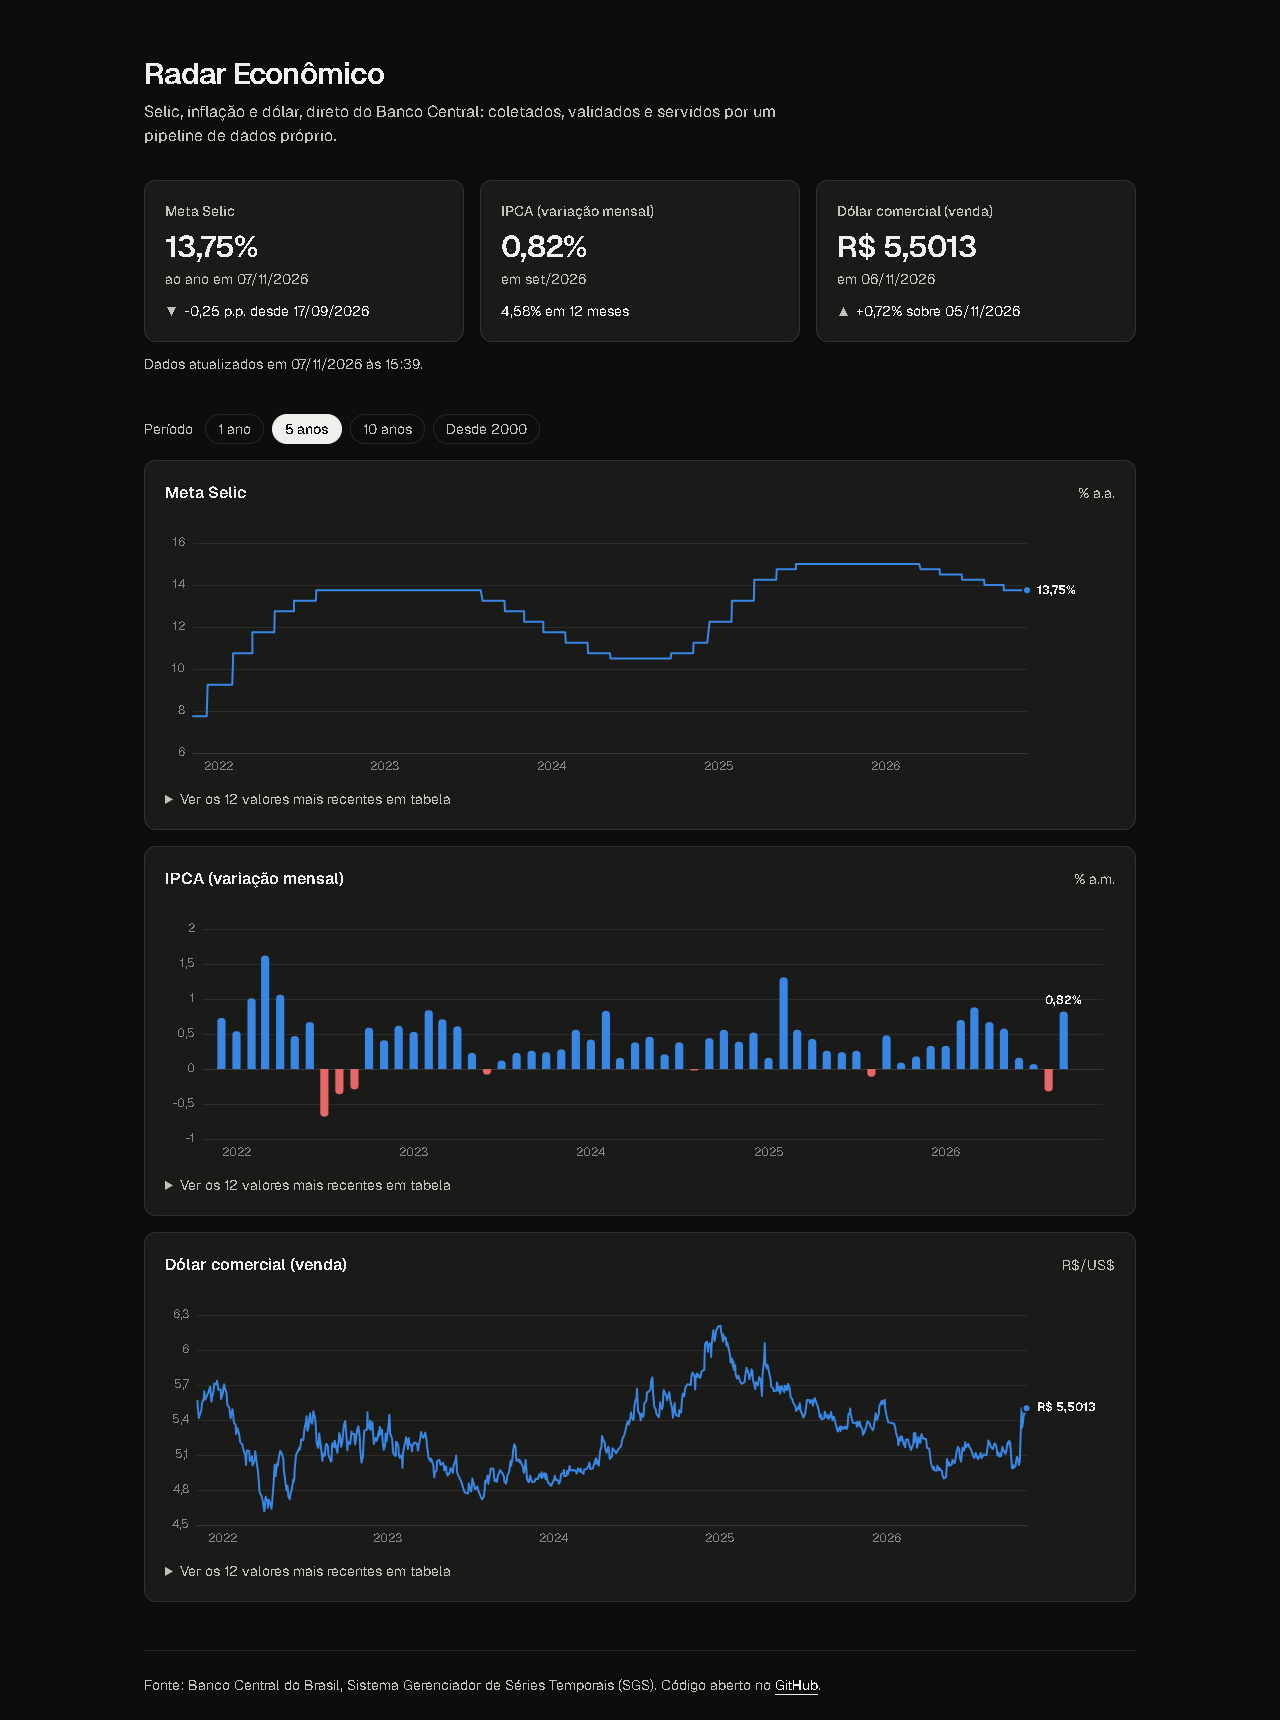
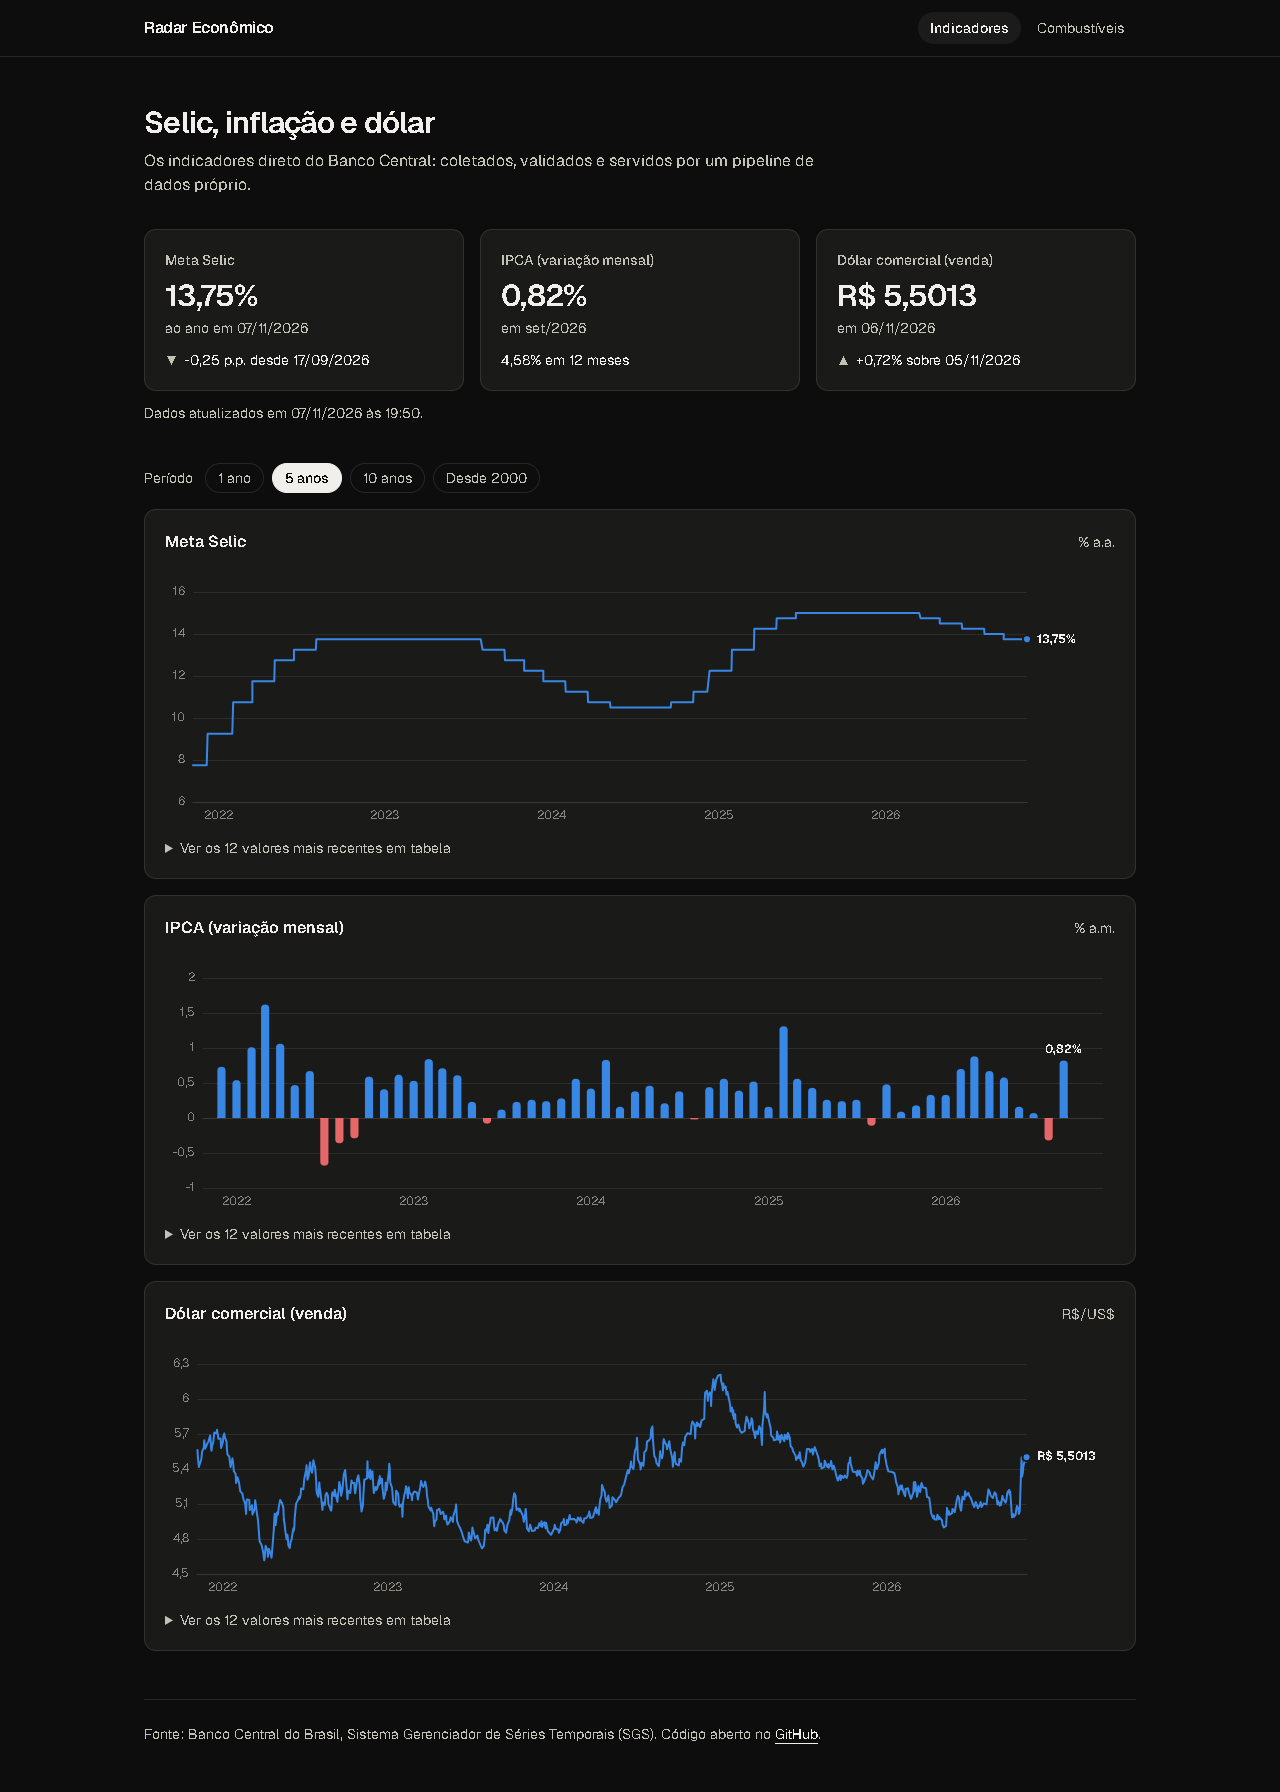
docs: página de combustíveis no README e capturas novas
Fase 2 concluída localmente: README com as duas páginas e as capturas nos
temas claro e escuro, e as decisões do mapa no CLAUDE.md.

diff --git a/README.md b/README.md
@@ -3,13 +3,14 @@
 Coleta dados públicos brasileiros (Banco Central, IBGE e ANP), processa em
 camadas e exibe num dashboard web com gráficos e mapa.
 
-> **Fase 1 concluída:** Selic, IPCA e dólar do Banco Central de ponta a ponta,
+> **Fases 1 e 2 concluídas:** Selic, IPCA e dólar do Banco Central, e os
+> preços de combustíveis da ANP com mapa por município, de ponta a ponta,
 > rodando localmente com `docker compose up` (o deploy está configurado, mas
-> ainda não publicado). **Em andamento:** Fase 2, preços de combustíveis da ANP.
+> ainda não publicado).
 
 <picture>
-  <source media="(prefers-color-scheme: dark)" srcset="docs/img/dashboard-escuro.png">
-  <img alt="Dashboard do Radar Econômico: cards com a meta Selic (13,75% ao ano), o IPCA (0,82% em setembro, 4,58% em 12 meses) e o dólar (R$ 5,5013), seguidos de um gráfico de cada indicador nos últimos 5 anos" src="docs/img/dashboard.png">
+  <source media="(prefers-color-scheme: dark)" srcset="docs/img/combustiveis-escuro.png">
+  <img alt="Página de combustíveis do Radar Econômico: filtros de combustível e estado, cards com a gasolina a R$ 6,51 no Brasil, o município mais barato (Goiatuba, R$ 5,74) e o mais caro (Parintins, R$ 8,99) em outubro de 2026, o gráfico do preço médio semanal e o mapa do Brasil com um ponto colorido por município pesquisado, ao lado dos rankings" src="docs/img/combustiveis.png">
 </picture>
 
 ## Arquitetura
@@ -26,7 +27,7 @@ A API só lê o schema `mart`.
 | `collector/` | Go | Coleta concorrente das fontes, grava em `raw` |
 | `pipeline/` | Python, polars, pandera | Limpa e valida `raw` → `staging` → `mart` |
 | `api/` | Go | API REST somente leitura sobre `mart` |
-| `web/` | Next.js, TypeScript, Tailwind | Dashboard |
+| `web/` | Next.js, TypeScript, Tailwind, ECharts, MapLibre | Dashboard com gráficos e mapa |
 | `db/migrations/` | SQL (golang-migrate) | Schemas e tabelas |
 
 ## Rodando localmente
@@ -93,7 +94,10 @@ npm --prefix web run dev                # web fora do Docker, em http://localhos
 
 ## Dashboard
 
-Next.js 16 (App Router, Cache Components) em http://localhost:3000:
+Next.js 16 (App Router, Cache Components) em http://localhost:3000, com duas
+páginas, tema claro e escuro, e funcionando no celular.
+
+**Indicadores** (`/`):
 
 - **Cards** com o último valor de cada indicador: a última decisão do Copom
   sobre a Selic, o IPCA acumulado em 12 meses e a variação diária do dólar;
@@ -101,12 +105,40 @@ Next.js 16 (App Router, Cache Components) em http://localhost:3000:
   IPCA em barras (cada mês é uma variação, acima ou abaixo de zero) e dólar
   em linha, com um seletor de período único para os três;
 - **Tabela** com os valores mais recentes ao lado de cada gráfico, como
-  alternativa acessível; tema claro e escuro; funciona no celular.
+  alternativa acessível.
+
+<picture>
+  <source media="(prefers-color-scheme: dark)" srcset="docs/img/dashboard-escuro.png">
+  <img alt="Página de indicadores: cards com a meta Selic (13,75% ao ano), o IPCA (0,82% em setembro, 4,58% em 12 meses) e o dólar (R$ 5,5013), seguidos de um gráfico de cada indicador nos últimos 5 anos" src="docs/img/dashboard.png">
+</picture>
+
+**Combustíveis** (`/combustiveis`):
+
+- **Filtros** de combustível, estado e mês, guardados na URL
+  (`/combustiveis?combustivel=etanol&uf=SP&mes=2026-10`): a página filtrada
+  pode ser compartilhada, e o botão Voltar desfaz a última troca;
+- **Cards** com o preço médio da última semana (e a variação em 4 semanas) e
+  os municípios mais barato e mais caro do mês;
+- **Gráfico semanal**: com um estado escolhido, a linha dele em destaque e a
+  do Brasil em cinza, como referência. A linha é interrompida nas semanas sem
+  pesquisa completa, em vez de ligar os pontos por cima do buraco;
+- **Mapa** ([MapLibre](https://maplibre.org)) com um ponto por município
+  pesquisado, colorido em cinco faixas de preço (quintis, com a mesma escala
+  para o país inteiro); o estado escolhido fica em destaque e enquadrado;
+- **Rankings** dos mais baratos e mais caros (só municípios com 3 ou mais
+  postos) e a **tabela** de todos os municípios do mês.
+
+O mapa não depende de nenhum serviço de mapas: o fundo é o contorno dos
+estados, gerado a partir da malha do IBGE por `web/scripts/build-ufs-geojson.mjs`
+e guardado em `web/public/geo/ufs.json`. O worker do MapLibre é copiado de
+`node_modules` para `web/public/vendor/` antes do `dev` e do `build`.
 
 Os dados são buscados no **servidor** do Next: o navegador nunca chama a API
-(sem CORS, URL da API em `API_URL`, lida em tempo de execução). A parte que
-depende da API fica dentro de um `<Suspense>`, então o `next build` gera o
-restante da página como HTML estático e **não precisa da API no ar**.
+(sem CORS, URL da API em `API_URL`, lida em tempo de execução). Trocar um
+filtro é uma navegação: o servidor busca os dados novos, e enquanto isso a
+página mostra a escolha nova e esmaece o conteúdo antigo. A parte que depende
+da API fica dentro de um `<Suspense>`, então o `next build` gera o restante da
+página como HTML estático e **não precisa da API no ar**.
 
 ## API
 

diff --git a/CLAUDE.md b/CLAUDE.md
@@ -75,6 +75,20 @@ Qualidade e clareza importam mais que quantidade de features.
   gráficos (sem zoom por gráfico); tabela acessível ao lado de cada gráfico.
 - Web: testes de funções puras com `node --test` (Node 26 roda TS direto,
   imports com extensão `.ts`); imagem Docker com `output: "standalone"`.
+- Web, combustíveis (`/combustiveis`): filtros na URL (`combustivel`, `uf`,
+  `mes`; valor inválido vira o padrão), trocados com `router.push` numa
+  transição + `useOptimistic` (padrão da doc do Next 16): o conteúdo antigo
+  esmaece, sem voltar ao esqueleto. Navegação entre páginas no layout
+  (`SiteNav`); títulos com o template "%s · Radar Econômico".
+- Mapa: MapLibre GL 6, só no cliente (`next/dynamic` com `ssr: false`), sem
+  serviço de mapas: o fundo é o contorno das UFs do IBGE
+  (`web/public/geo/ufs.json`, com `bbox` por UF, gerado por
+  `web/scripts/build-ufs-geojson.mjs`). O worker do MapLibre 6 precisa ser
+  servido: `predev`/`prebuild` copiam para `web/public/vendor/` (fora do git)
+  e o mapa chama `setWorkerUrl`. Cores em 5 faixas por quintis (comparando em
+  centavos, arredondados como na tela), uma escala só para o país; no escuro
+  a escala inverte. A tabela com todos os municípios só é montada quando
+  aberta (os dados já vêm para o mapa).
 - Deploy ADIADO por decisão de custo (nov/2026): a configuração está pronta,
   mas nada foi publicado. Publicar quando o usuário decidir; Neon e Vercel são
   grátis, só a API no Fly.io custa (~US$ 2/mês, exige cartão). Revisar os
@@ -124,7 +138,8 @@ Coletor e pipeline NÃO se chamam diretamente: eles se comunicam pelo banco
 - Fase 0: monorepo, Docker Compose (Postgres + Redis), migrations, CI básico.
 - Fase 1: Banco Central (Selic, IPCA, dólar) de ponta a ponta, com deploy. ← MVP
   Concluída localmente; o deploy ficou para depois (ver "Decisões tomadas").
-- Fase 2: ANP (combustíveis) + filtros + mapa por município. ← atual
+- Fase 2: ANP (combustíveis) + filtros + mapa por município.
+  Concluída localmente.
 - Fase 3: cargas incrementais, testes, validação de dados, cache, coleta agendada,
   endpoint de saúde dos dados.
 - Fase 4: análises (previsão de preços, correlação dólar × gasolina).
